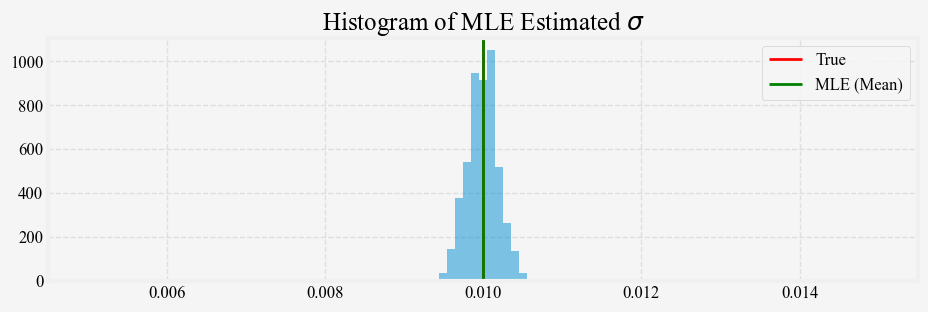
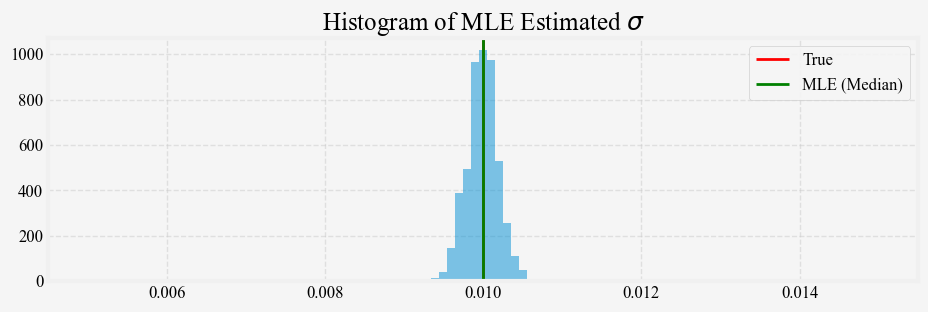
regular check-in

diff --git a/_posts/2023-09-16-short-rate-models-4.md b/_posts/2023-09-16-short-rate-models-4.md
@@ -136,7 +136,7 @@ Using $$r_0 = 0.05$$, $$\kappa = 0.15$$, $$\theta = 0.03$$, $$\sigma = 0.01$$, $
 
 
 ## Calibration to Market Observed Short Rates
-Estimating the Ornstein Uhlenbeck model parameters from finite sample data is challenging because the variance around the maximum likelihood estimates of $$\kappa$$ and $$\theta$$ can be quite large, and their biases are also high. This section briefly covers the basics of Vasicek model parameter estimation using traditional methods such as the MLE. We will then show the size of the estimation bias and variance through simulations. 
+This section covers the basics of Vasicek model (OU process) parameter estimation using traditional methods such as the maximum likelihood estimation (MLE). We demonstrate through simulations that the MLE parameter estimates from finite samples are rather problematic, and discuss the source of the problem. We then introduce a particle filtering method to estimate the model parameters that empirically improves the parameter estimation.
 
 ### Maximum Likelihood Estimation
 Just as we did for the Merton model, we can derive the log-likelihood function for the Vasicek model by noting that conditional on the short rate at time $$t$$, the short rate at time $$t+\Delta t$$ is normally distributed. Using the Euler method to discretize the OU process, the log-likelihood function is given by
@@ -171,8 +171,8 @@ def vasicek_log_likelihood(params, rates, dt):
     return -logL
 
 def calibrate_vasicek_mle(rates, dt):
-    initial_params = [1, np.mean(rates), np.std(np.diff(rates)) * np.sqrt(1/dt)]
-    bounds = [(0, None), (None, None), (1e-8, None)]
+    initial_params = [np.random.uniform(0, 1), np.mean(rates), np.std(np.diff(rates)) * np.sqrt(1/dt)]
+    bounds = [(None, None), (None, None), (1e-8, None)]
     
     result = minimize(
         vasicek_log_likelihood, initial_params, 
@@ -184,11 +184,24 @@ def calibrate_vasicek_mle(rates, dt):
 
 ```
 
-We generate 5000 paths of the short rate process using the same $$\kappa = 0.15$$, $$\theta = 0.03$$, $$\sigma = 0.01$$ and $$ r_0 = 0.05$$ for $$t=5$$ years, and apply the maximum likelihood to estimate the parameters from each path. Figure 3 shows the distribution of the MLE estimates for $$\kappa$$, $$\theta$$, and $$\sigma$$ against the true value.
+We generate 5000 paths of the short rate process using the same $$\kappa = 0.15$$, $$\theta = 0.03$$, $$\sigma = 0.01$$ and $$ r_0 = 0.05$$ for $$t=5$$ years, and apply the maximum likelihood to estimate the parameters from each path. Figure 3, 4, and 5 show the distribution of the MLE estimates for $$\kappa$$, $$\theta$$, and $$\sigma$$ against their true values. The $$\kappa$$ and $$\theta$$ median estimates from the 5-year simulated samples are quite different from the true values, and the variance of the estimates are quite large, as 
 
 ![Figure 3. MLE Estimates for the Vasicek Model Parameters ($$\kappa$$)](/assets/img/post_assets/short-rate-models-4/kappa_mle_bootstrap.png)
 ![Figure 4. MLE Estimates for the Vasicek Model Parameters ($$\theta$$)](/assets/img/post_assets/short-rate-models-4/theta_mle_bootstrap.png)
 ![Figure 5. MLE Estimates for the Vasicek Model Parameters ($$\sigma$$)](/assets/img/post_assets/short-rate-models-4/sigma_mle_bootstrap.png)
+
+There are several reasons estimating the OU process parameters $$\kappa$$ and $$\theta$$ from finite sample data is challenging.
+
+- Identification: for the $$\kappa$$ estimates, when true $$\kappa$$ is small, the OU process behaves almost like a random walk, meaning the process is barely mean-reverting within a finite sample. In this situation, the term $$e^{-\theta \Delta t}$$ approaches 1, making it difficult to distinguish the contribution of $$\kappa$$ and $$\theta$$. This causes the parameters to be poorly identified in small samples. Moreover, looking at the log-likelihood function, we notice that $$\kappa$$ and $$\theta$$ show up together in the term $$\theta \left(1 - e^{-\kappa \Delta t}\right)$$, and for small sample sizes, there is high correlation between these parameters: a slight change in $$\theta$$ can often be compensated by a change in $$\kappa$$. As a result, the likelihood surface can be flat or ill-conditioned for both $$\kappa$$ and $$\theta$$, making it hard for MLE to find the true values.
+
+- Bias: In addition, in short finite samples, the process may not have enough time to revert significantly to its mean, making it difficult to observe the true behavior of the mean-reversion process. If the sample path has not had enough realizations of reversion toward $$theta$$, the estimates of $$\theta$$ will be biased toward the initial value of the process. This is particularly problematic for processes that start far from $$\theta$$. Since the estimate of $$\kappa$$ depends critically on $$\theta$$. If one is estimated poorly (e.g., due to small sample size or near-unit root behavior), then the other will also be inaccurate. This compounding effect makes $$\theta$$ hard to estimate independently when $$\kappa$$ is small or uncertain. The MLE $$\kappa$$ estimate is biased. The bias occurs because the likelihood function is nonlinear in $$\kappa$$, and small-sample variability causes the MLE to overestimate $$\kappa$$. This bias becomes significant when the sample size is small or when $$\kappa \Delta t$$ is small (i.e., for slow mean-reversion).
+
+- Variance: the variance term in the likelihood function is inversely proportional to $$\kappa$$. As $$\kappa \to 0$$, the variance of the process becomes very large, leading to a larger confidence interval and higher uncertainty in the parameter estimates. 
+
+If we remove the need to estimate $$\theta$$ and $$\sigma$$, we can get much better $$\kappa$$ estimates. Figure 6 shows the histogram of the MLE $$\kappa$$ estimates when $$\theta$$ and $$\sigma$$ are known and fixed at their true values. It is still biased upward due to nonlinear likelihood function in small sample, but the variance is significantly smaller.
+
+![Figure 6. MLE Estimates for the Vasicek Model Parameters ($$\kappa$$) When $$\theta$$ and $$\sigma$$ are Known](/assets/img/post_assets/short-rate-models-4/kappa_mle_bootstrap_1.png)
+
 
 ### Particle Filtering
 

diff --git a/_posts/2023-05-10-short-rate-models-1.md b/_posts/2023-05-10-short-rate-models-1.md
@@ -12,7 +12,7 @@ tags: [study-notes, quantitative-finance, short-rate-models]
 ## Table of Contents
 
 1. [Introduction](#introduction)
-2. [Preliminaries](#preliminaries)
+2. [Recap of Bond Pricing from Short Rate Models](#recap-of-bond-pricing-from-short-rate-models)
 3. [Merson's Model](#mertons-model-1973)
 
 ## Introduction
